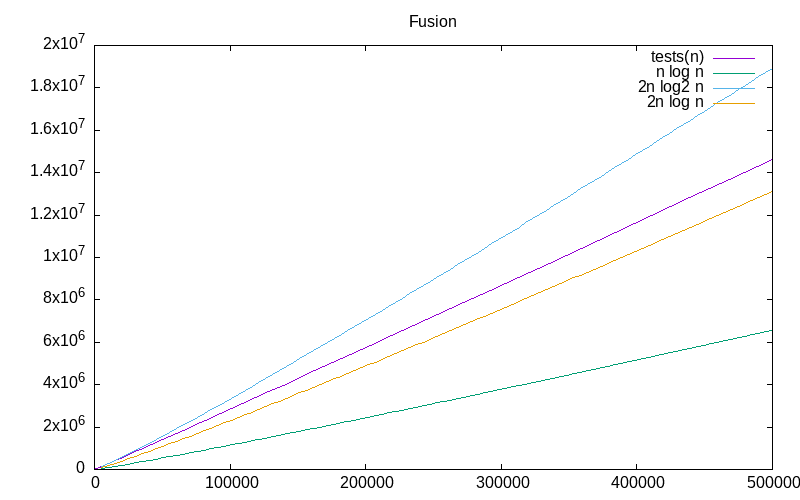
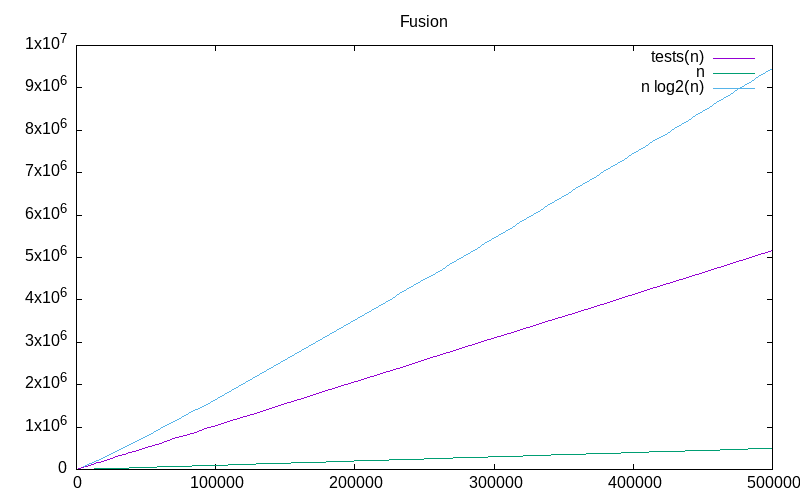
explained complexity, moved the loop counter to count all loops

diff --git a/roof_line.c b/roof_line.c
@@ -1,6 +1,6 @@
 #include "roof_line.h"
 
-int rec = 0;
+int loop_count = 0;
 
 void free_roof_line(roof_line_t *roof_line)
 {
@@ -12,6 +12,18 @@ void free_roof_line(roof_line_t *roof_line)
       free(node);
    }
    free(roof_line);
+}
+
+int get_line_size(roof_line_t *roof_line)
+{
+   int size = 0;
+   node_t *node = roof_line->root;
+   while (node != NULL)
+   {
+      size++;
+      node = node->next;
+   }
+   return size;
 }
 
 void print_roof_line(roof_line_t *roof_line)
@@ -27,9 +39,9 @@ void print_roof_line(roof_line_t *roof_line)
 
 roof_line_t *construct_line(int triplets[][3], int n)
 {
-   rec += n;
    if (n == 1)
    {
+      loop_count++;
       roof_line_t *roof_line = (roof_line_t *)malloc(sizeof(roof_line_t));
       node_t *first_point = malloc(sizeof(node_t));
       first_point->x = triplets[0][0];
@@ -111,7 +123,8 @@ roof_line_t *fusion(roof_line_t *first_line, roof_line_t *second_line)
 
    while (fl_point != NULL && sl_point != NULL)
    {
-      rec++;
+      loop_count++;
+
       x1 = fl_point->x;
       y1 = fl_point->y;
       x2 = sl_point->x;
@@ -164,7 +177,7 @@ roof_line_t *fusion(roof_line_t *first_line, roof_line_t *second_line)
 
    while (sl_point != NULL)
    {
-      rec++;
+      loop_count++;
       node = malloc(sizeof(node_t));
       node->x = sl_point->x;
       node->y = sl_point->y;
@@ -174,7 +187,7 @@ roof_line_t *fusion(roof_line_t *first_line, roof_line_t *second_line)
    }
    while (fl_point != NULL)
    {
-      rec++;
+      loop_count++;
       node = malloc(sizeof(node_t));
       node->x = fl_point->x;
       node->y = fl_point->y;

diff --git a/test.c b/test.c
@@ -1,6 +1,6 @@
 #include "roof_line.h"
 
-extern int rec;
+extern int loop_count;
 int test_number = 1;
 
 roof_line_t *read_test_file(char *filename, FILE *output)
@@ -21,7 +21,7 @@ roof_line_t *read_test_file(char *filename, FILE *output)
    roof_line_t *roof_line = construct_line(triplets, size);
    fclose(file);
    char buf[32];
-   sprintf(buf, "%d %d\n", size, rec);
+   sprintf(buf, "%d %d\n", size, loop_count);
    fwrite(buf, strlen(buf), 1, output);
    return roof_line;
 }
@@ -57,7 +57,7 @@ roof_line_t *read_answer_file(char *filename)
 
 void test_func(char *filename, FILE *file)
 {
-   rec = 0;
+   loop_count = 0;
    char input[strlen("tests/") + strlen(filename) + strlen("-input.txt")];
    strcpy(input, "tests/");
    strcpy(&input[strlen("tests/")], filename);
@@ -69,6 +69,7 @@ void test_func(char *filename, FILE *file)
    strcpy(&output[strlen("tests/") + strlen(filename)], "-output.txt");
 
    roof_line_t *test = read_test_file(input, file);
+   int compressed_line_size = get_line_size(test);
 
    roof_line_t *correct_answer = read_answer_file(output);
    printf("\nExpected : ");
@@ -85,7 +86,7 @@ void test_func(char *filename, FILE *file)
    free_roof_line(correct_answer);
    if (res)
    {
-      printf("\nTest %d : success, number of recursive call %d\n\n--------------------------------------\n", test_number, rec);
+      printf("\nTest %d : success, number of node traveled %d, compressed line size %d\n\n--------------------------------------\n", test_number, loop_count, compressed_line_size);
    }
    else
    {

diff --git a/roof_line.h b/roof_line.h
@@ -24,3 +24,4 @@ roof_line_t *decompress_line(roof_line_t *line);
 void generate_svg_file(char *filename, int triplets[][3], int n);
 roof_line_t *create_roof_line_with_points(int tuples[][2], int n);
 int equals_lines(roof_line_t *first_line, roof_line_t *second_line);
+int get_line_size(roof_line_t *roof_line);

diff --git a/main.c b/main.c
@@ -1,6 +1,6 @@
 #include "roof_line.h"
 
-extern int rec;
+extern int loop_count;
 
 int main()
 {
@@ -29,6 +29,6 @@ int main()
 
     generate_svg_file("file.html", data, n);
 
-    printf("rec %d\n", rec);
+    printf("rec %d\n", loop_count);
     return 0;
 }

diff --git a/readme.md b/readme.md
@@ -140,8 +140,7 @@ On a ensuite 3 cas:
 
 Equation de recurrence : 
 
-$  
-T(n) = 
+$  T(n) = 
      \begin{cases}
        1 & \text{si } n = 1 \\
        n + 2T(\frac{n}{2}) & \text{sinon}
@@ -152,8 +151,24 @@ D'après le master theorem :
 
 $\log_2 2 = 1$ on est dans le cas $d = \log_b a$, on a donc une complexité en $O(n \log n)$
 
-On a en réalité un peu moins que $2n \log_2 n$ calculs (sans compter les opérations de comparaisons des points dans l'algorithme de fusion)
+On a en réalité un peu moins de $n \log_2 n$ parcours des points car l'algorithme de fusion fait disparaitre certains points des lignes, ce qui fait qu'on ne re parcourt pas certains points dans les fusions de niveaux supérieurs. On aurait réellement $n \log_2 n$ calculs dans le pire des cas (que tous les points aient une abscisse différente ou que la ligne forme un escalier).
 
-On se rapproche beaucoup plus de $2n \log n$ car l'algorithme de fusion fait disparaitre certains points des lignes, ce qui fait qu'on ne re parcourt pas certains points dans les fusions plus grandes. On aurait réellement $2n \log_2 n$ calculs dans le pire des cas (que tous les points aient une abscisse différente).
+Calculs détaillés : 
+
+$ T(n) =  n + 2T(\frac{n}{2})  $
+
+Niveau 0 : n
+
+Niveau 1 : n/2 + n/2 = n
+
+Niveau 2 : n/4 + n/4 + n/4 + n/4 = n
+
+...
+
+$ T(n) = n + 2(\frac{n}{2}) + 4(\frac{n}{4}) + ... + 2^kT(\frac{n}{2^k}) $ avec $ k = \log_2 n $
+
+Ce qui donne :
+$ T(n) = \sum\limits_{i = 1}^{\log_2 (n)} n = n \log_2 n $
+
 
 ![Courbes](courbes.png)
